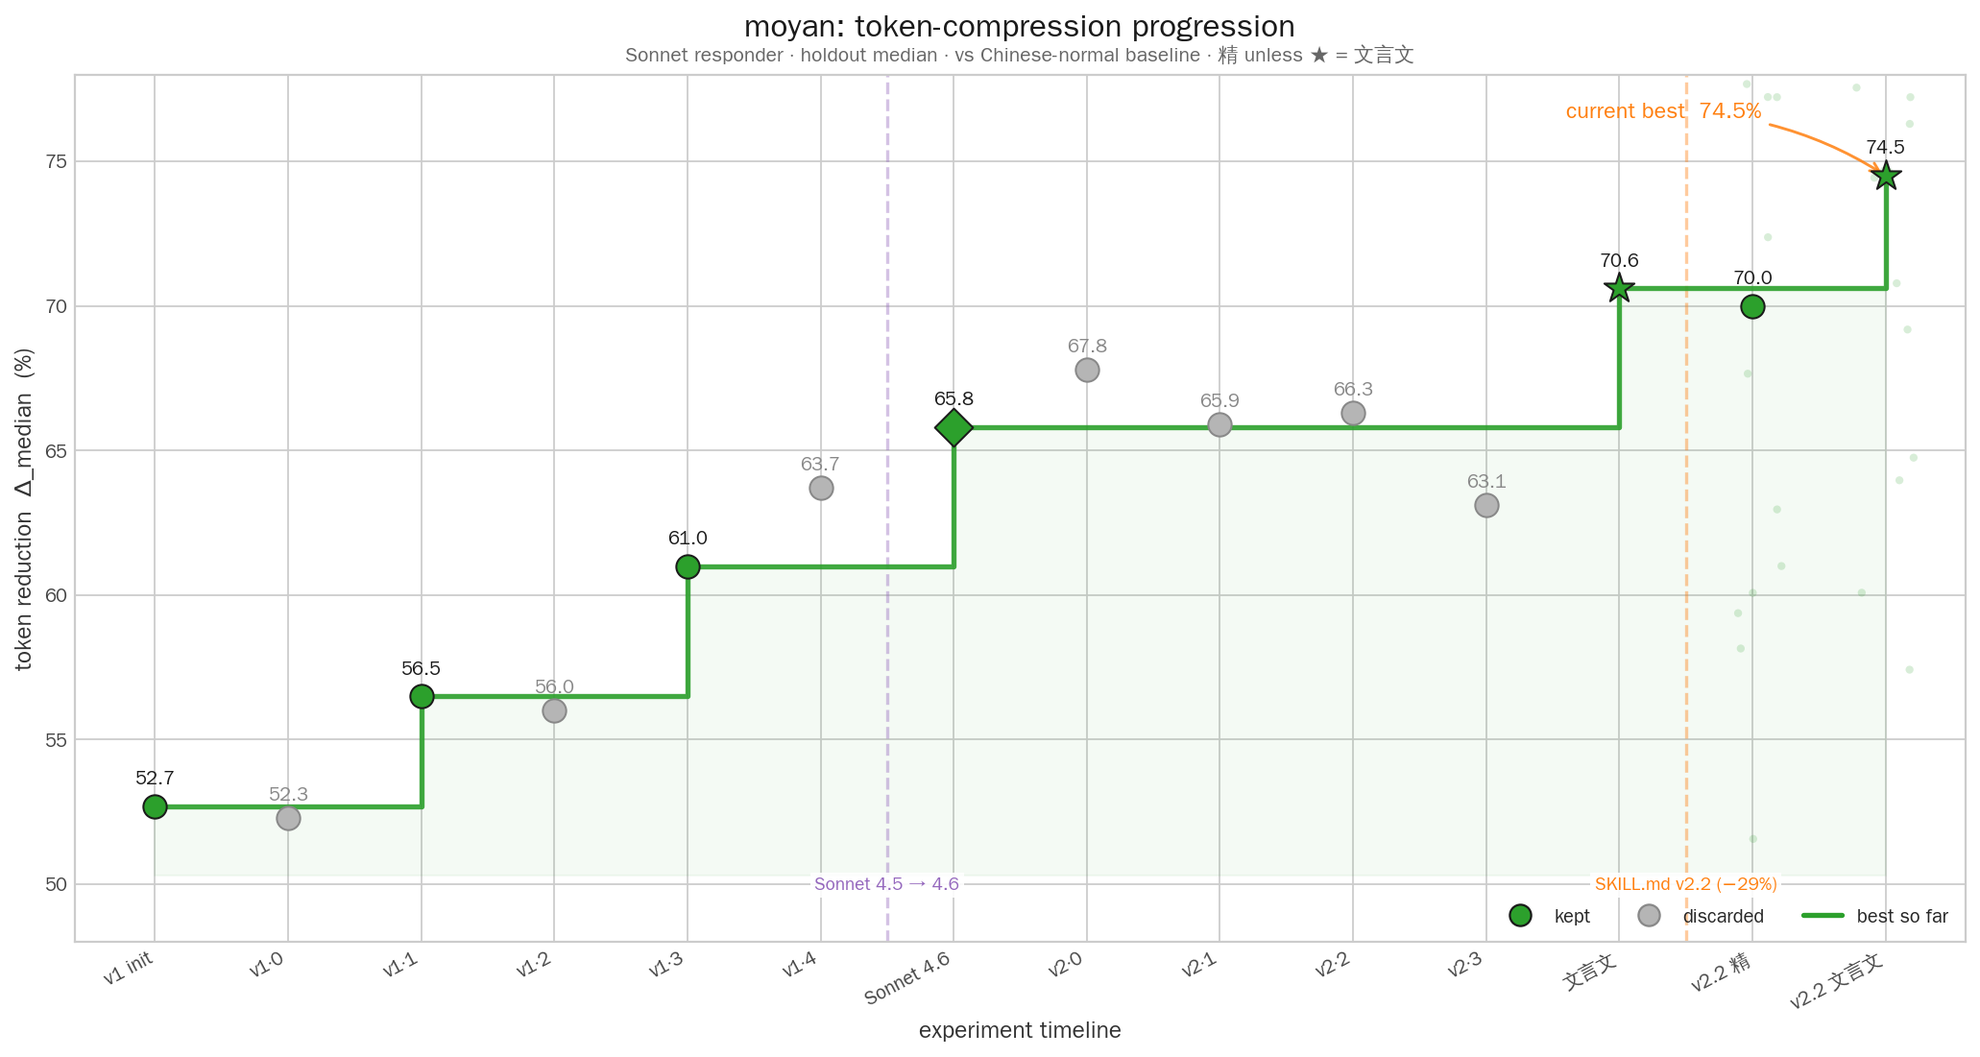
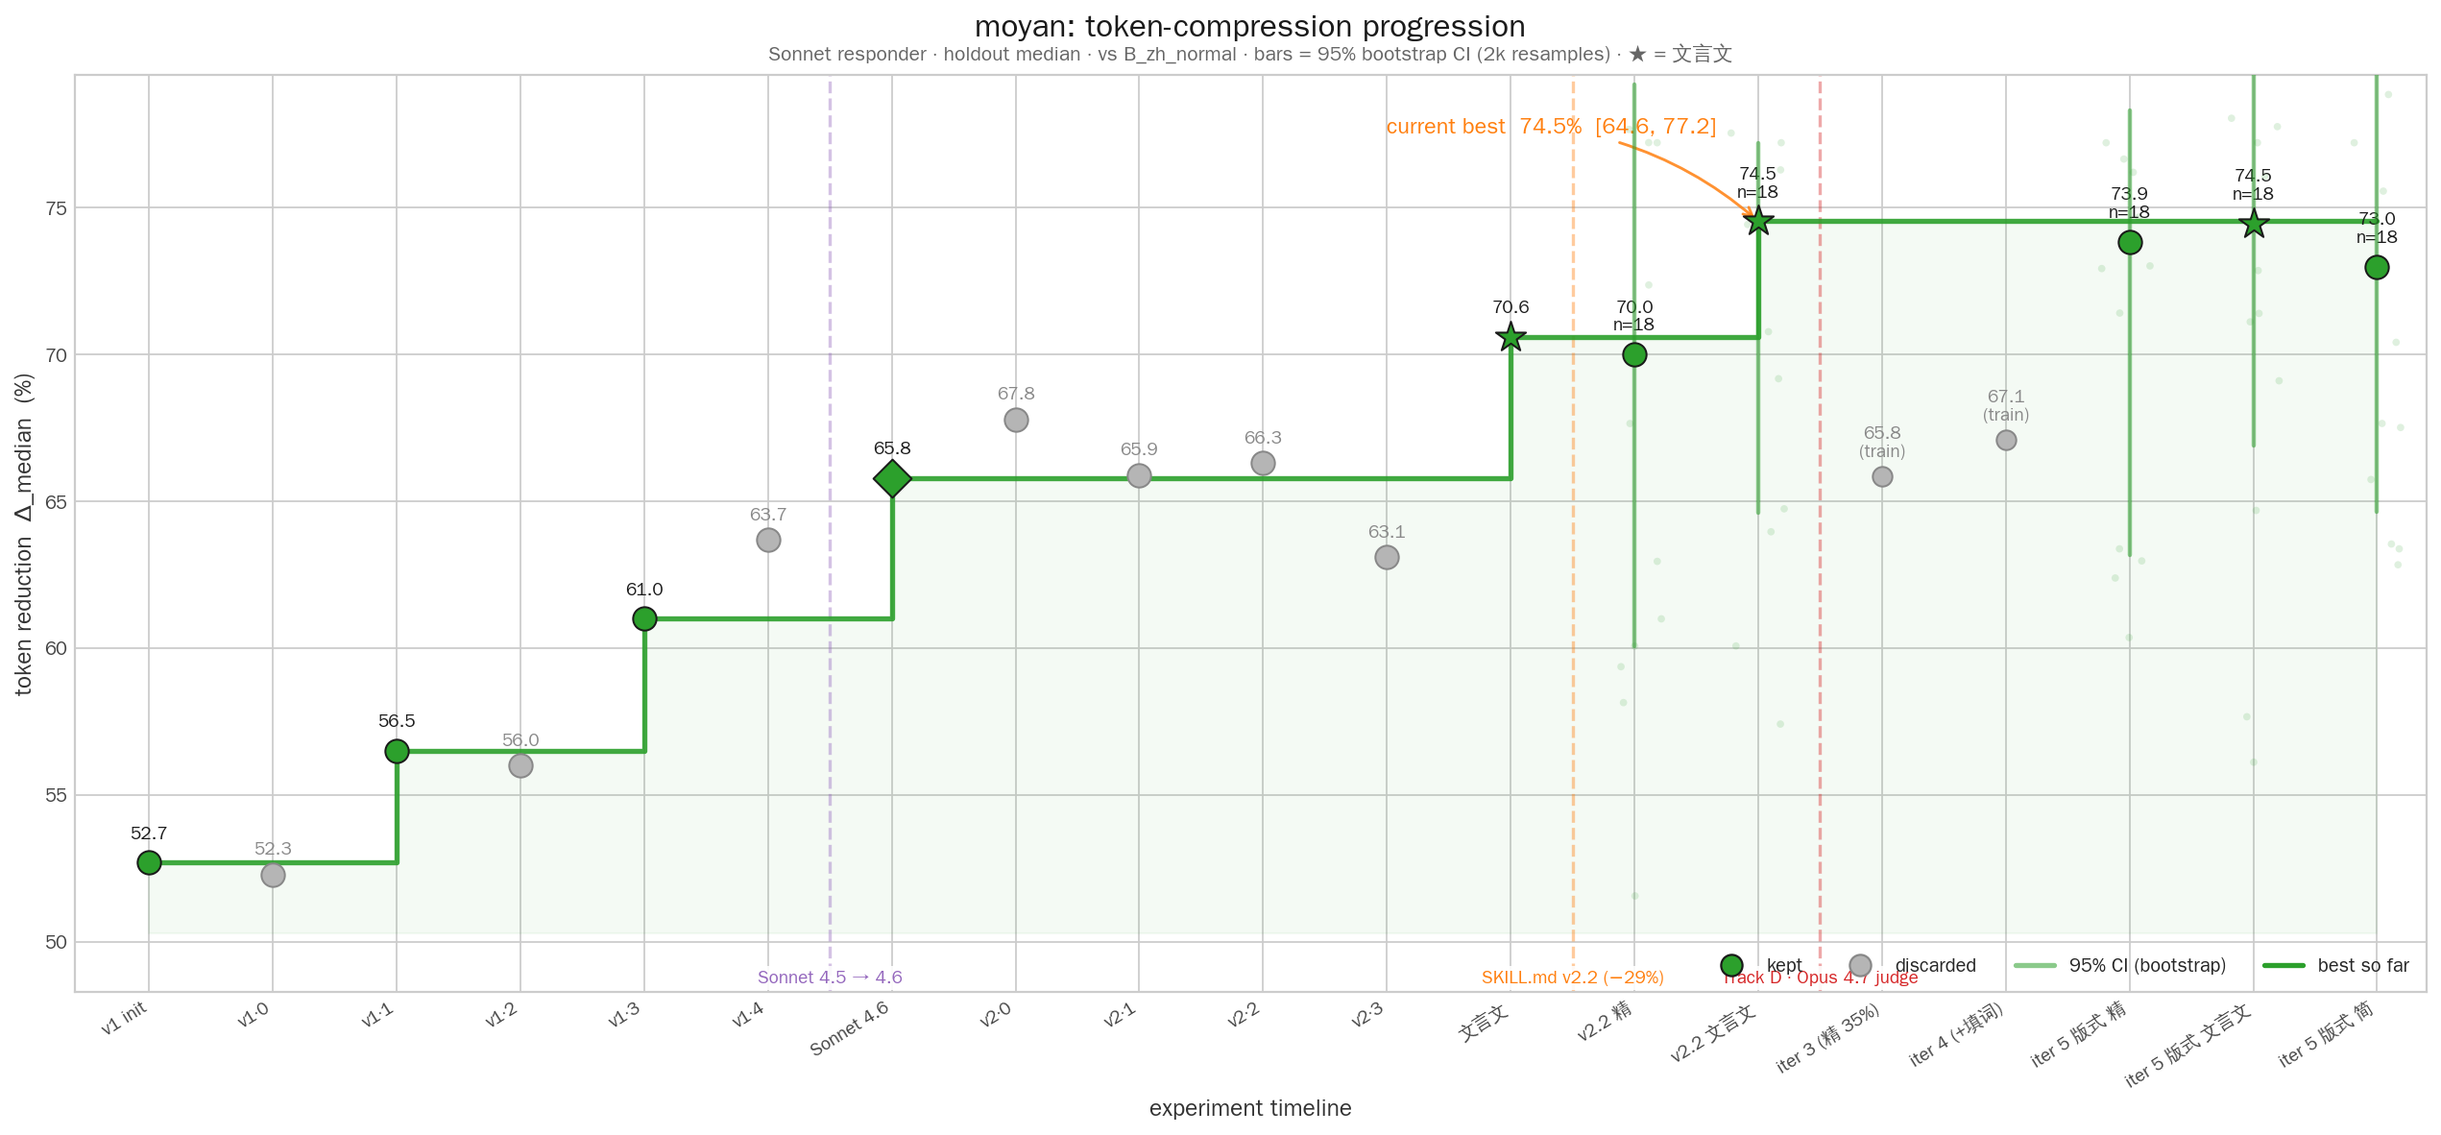
bench: data-backed plot + bootstrap CIs, flip-claim correction, iter 6 discard
plot.py: 20 EVENTS (up from 14), live-loads per-prompt deltas from trace files,
95% percentile bootstrap CIs on medians (n=2000), per-level points for Track D.
Shows iter 6 discard (x=19) alongside iter 5 keep (x=16-18).

RESULTS_v2.md: correct prior "级别排序翻转" claim — cross-run pairing with
n=16 was methodologically wrong. Within-run B_zh_normal pairing at n=18 shows
convergence (简 73.0 / 精 73.9 / 文言文 74.5), not flip. Add iter 6 writeup:
删 SQL 示例 → train +1.1pp / holdout -8pp，示例块作 few-shot 锚点。

results.tsv: log iter 6 as discard:holdout-overfit.

diff --git a/benchmark/plot.py b/benchmark/plot.py
@@ -1,12 +1,18 @@
 """Render docs/progression.png — moyan token-compression progression.
 
-Timeline of every SKILL.md iteration + level discoveries that moved the needle.
-Each point: Δ_median (output-token reduction vs B_zh_normal) on the benchmark.
-Big colored dot = kept/discovered. Gray dot = discarded. Number above every dot.
-Step line = best-so-far. Per-prompt scatter cloud under current-best entries
-so you can see the underlying distribution, not just the headline median.
+Timeline of every SKILL.md iteration that moved (or failed to move) the metric.
+Each point = holdout Δ_median (output-token reduction vs B_zh_normal baseline).
 
-Data is hand-curated from RESULTS{,_v2}.md + git log + local traces.
+Statistical machinery:
+- For every point backed by real traces we also draw a 95% bootstrap CI
+  (vertical bar) computed from the per-prompt Δ distribution. Lets readers
+  see that single-point differences of 1-2pp are inside the noise band.
+- Step line = best-so-far (of kept points only).
+- Faint scatter cloud under current-best points = raw per-prompt Δ.
+
+Historical points (v1 era, Sonnet 4.5; v2·0-3) have no traces on disk; they
+appear as point estimates only. All Track C & D points load live from traces.
+
 Regenerate after any new iteration:
     pip install matplotlib
     python benchmark/plot.py
@@ -15,6 +21,7 @@ from __future__ import annotations
 
 import json
 import random
+import statistics
 from pathlib import Path
 
 import matplotlib.pyplot as plt
@@ -23,12 +30,74 @@ from lib import BASELINE_GROUP
 
 BENCH = Path(__file__).resolve().parent
 
+
+# --- data loading -----------------------------------------------------------
+
+def per_prompt_deltas(run_id: str, moyan_group: str,
+                      baseline_run_id: str | None = None,
+                      split: str | None = "holdout") -> list[float]:
+    """Per-prompt Δ = (1 - moyan_out / baseline_out), as percentages.
+
+    Baseline defaults to same run_id (within-run pairing, the fair comparison).
+    `split` restricts to train.txt or holdout.txt prompt IDs; None = all.
+    """
+    baseline_run_id = baseline_run_id or run_id
+    split_ids: set[str] | None = None
+    if split:
+        f = BENCH / "splits" / f"{split}.txt"
+        if f.exists():
+            split_ids = {l.strip() for l in f.read_text().splitlines() if l.strip()}
+
+    def totals(rid: str, group: str) -> dict[str, int]:
+        d = BENCH / "traces" / rid
+        if not d.exists():
+            return {}
+        out: dict[str, int] = {}
+        for p in d.glob("*.json"):
+            if p.name.startswith(".") or "_judgments" in p.parts:
+                continue
+            t = json.loads(p.read_text(encoding="utf-8"))
+            if t.get("error") or t.get("group") != group:
+                continue
+            out[t["prompt_id"]] = out.get(t["prompt_id"], 0) + t["usage"]["output_tokens"]
+        return out
+
+    m = totals(run_id, moyan_group)
+    b = totals(baseline_run_id, BASELINE_GROUP)
+    deltas = []
+    for pid, mv in m.items():
+        bv = b.get(pid)
+        if not bv:
+            continue
+        if split_ids is not None and pid not in split_ids:
+            continue
+        deltas.append((1 - mv / bv) * 100)
+    return deltas
+
+
+def bootstrap_median_ci(samples: list[float], n_boot: int = 2000,
+                        alpha: float = 0.05,
+                        seed: int = 0) -> tuple[float, float]:
+    """Percentile-bootstrap CI for the median. Cheap and assumption-free."""
+    if len(samples) < 2:
+        return (float("nan"), float("nan"))
+    rng = random.Random(seed)
+    n = len(samples)
+    meds = []
+    for _ in range(n_boot):
+        resample = [samples[rng.randrange(n)] for _ in range(n)]
+        meds.append(statistics.median(resample))
+    meds.sort()
+    lo = meds[int(n_boot * alpha / 2)]
+    hi = meds[int(n_boot * (1 - alpha / 2))]
+    return (lo, hi)
+
+
 # --- timeline ---------------------------------------------------------------
-# Δ = moyan 精 holdout Δ_median vs B_zh_normal (same prompts, same metric).
-# The final entry flips to 文言文 — kept in the headline because it's the
-# mode we now recommend for debug/explain and it's the current SOTA.
+# `run` / `group` filled in for points we can load from traces. Others are
+# hand-curated (traces not retained). x is display order, not a real axis.
 EVENTS = [
-    # v1 era — Sonnet 4.5, hand + autoskill iterations on 精
+    # v1 era — Sonnet 4.5, hand + autoskill iterations on 精 (no traces on disk)
     dict(x=0,  d=52.7, keep=True,  tag="v1 init"),
     dict(x=1,  d=52.3, keep=False, tag="v1·0"),
     dict(x=2,  d=56.5, keep=True,  tag="v1·1"),
@@ -37,60 +106,50 @@ EVENTS = [
     dict(x=5,  d=63.7, keep=False, tag="v1·4"),
     # model upgrade — no SKILL.md change
     dict(x=6,  d=65.8, keep=True,  tag="Sonnet 4.6", marker="D"),
-    # v2 era — Sonnet 4.6, autoskill iters (all discarded — plateau)
+    # v2 era — Sonnet 4.6, autoskill iters (all discarded)
     dict(x=7,  d=67.8, keep=False, tag="v2·0"),
     dict(x=8,  d=65.9, keep=False, tag="v2·1"),
     dict(x=9,  d=66.3, keep=False, tag="v2·2"),
     dict(x=10, d=63.1, keep=False, tag="v2·3"),
-    # discovery — level switch (no rule change), Sonnet 4.6 holdout 文言文
+    # discovery — level switch (no rule change)
     dict(x=11, d=70.6, keep=True,  tag="文言文", marker="*"),
-    # Track C — SKILL.md v2.2 trim + quantitative level targets
-    dict(x=12, d=70.0, keep=True,  tag="v2.2 精"),
-    dict(x=13, d=74.5, keep=True,  tag="v2.2 文言文", marker="*"),
+    # Track C — SKILL.md v2.2 trim (has traces)
+    dict(x=12, keep=True,  tag="v2.2 精",
+         run="v2-sonnet-v22", group="D_moyan_jing"),
+    dict(x=13, keep=True,  tag="v2.2 文言文", marker="*",
+         run="v2-sonnet-v22", group="E_moyan_wenyan"),
+    # Track D — autoskill under Opus 4.7 judge
+    dict(x=14, keep=False, tag="iter 3 (精 35%)", train_only=True,
+         d=65.84, note="train only"),
+    dict(x=15, keep=False, tag="iter 4 (+填词)", train_only=True,
+         d=67.09, note="train only"),
+    dict(x=16, keep=True,  tag="iter 5 版式 精",
+         run="skill23-holdout-allgroups", group="D_moyan_jing"),
+    dict(x=17, keep=True,  tag="iter 5 版式 文言文", marker="*",
+         run="skill23-holdout-allgroups", group="E_moyan_wenyan"),
+    dict(x=18, keep=True,  tag="iter 5 版式 简",
+         run="skill23-holdout-allgroups", group="C_moyan_jian"),
+    dict(x=19, keep=False, tag="iter 6 删 SQL 示例",
+         run="holdout_006", group="D_moyan_jing"),
 ]
 
-# Per-prompt Δ cloud — drawn as a faint vertical strip under the median dot
-# for entries where we still have local traces. Gives the viewer a sense of
-# the distribution behind every headline median.
-def load_cloud(run_id: str, group: str) -> list[float]:
-    d = BENCH / "traces" / run_id
-    if not d.exists():
-        return []
-    totals_m: dict[str, int] = {}
-    totals_b: dict[str, int] = {}
-    for p in d.glob("*.json"):
-        if p.name.startswith(".") or "_judgments" in p.parts:
-            continue
-        t = json.loads(p.read_text(encoding="utf-8"))
-        if t.get("error"):
-            continue
-        pid = t["prompt_id"]
-        out = t["usage"]["output_tokens"]
-        if t["group"] == group:
-            totals_m[pid] = totals_m.get(pid, 0) + out
-        elif t["group"] == BASELINE_GROUP:
-            totals_b[pid] = totals_b.get(pid, 0) + out
-    deltas = []
-    for pid, m in totals_m.items():
-        b = totals_b.get(pid)
-        if not b:
-            continue
-        deltas.append((1 - m / b) * 100)
-    return deltas
-
-
-CLOUDS = {
-    12: load_cloud("v2-sonnet-v22", "D_moyan_jing"),
-    13: load_cloud("v2-sonnet-v22", "E_moyan_wenyan"),
-}
+# Resolve data-backed events: compute median + 95% CI + cloud from traces.
+for e in EVENTS:
+    if "run" in e:
+        deltas = per_prompt_deltas(e["run"], e["group"])
+        if deltas:
+            e["d"] = statistics.median(deltas)
+            e["ci"] = bootstrap_median_ci(deltas)
+            e["cloud"] = deltas
+            e["n"] = len(deltas)
 
 
 def best_so_far(events):
     best, out = -1e9, []
     for e in events:
-        if e.get("keep"):
+        if e.get("keep") and "d" in e:
             best = max(best, e["d"])
-        out.append(best)
+        out.append(best if best > -1e9 else None)
     return out
 
 
@@ -104,48 +163,78 @@ def render(out_path: Path):
     plt.rcParams["font.family"] = [cjk, "DejaVu Sans", "sans-serif"] if cjk else ["DejaVu Sans"]
     plt.rcParams["axes.unicode_minus"] = False
 
-    fig, ax = plt.subplots(figsize=(13, 7))
+    fig, ax = plt.subplots(figsize=(16, 7.5))
 
     GREEN = "#2ca02c"
     GRAY  = "#b5b5b5"
     DARK  = "#1a1a1a"
+    CI_C  = "#2ca02c"
 
-    xs = [e["x"] for e in EVENTS]
-    bsf = best_so_far(EVENTS)
+    # Exclude events that didn't resolve
+    events = [e for e in EVENTS if "d" in e]
+    xs = [e["x"] for e in events]
 
-    ax.step(xs, bsf, where="post", color=GREEN, linewidth=2.4,
-            alpha=0.9, zorder=2)
-    ax.fill_between(xs, [min(e["d"] for e in EVENTS) - 2] * len(xs), bsf,
-                    step="post", color=GREEN, alpha=0.05, zorder=1)
+    bsf = best_so_far(events)
+    step_xs = [e["x"] for e, b in zip(events, bsf) if b is not None]
+    step_ys = [b for b in bsf if b is not None]
 
+    ax.step(step_xs, step_ys, where="post", color=GREEN, linewidth=2.4,
+            alpha=0.9, zorder=2, label="best so far")
+    ax.fill_between(step_xs,
+                    [min(e["d"] for e in events) - 2] * len(step_xs),
+                    step_ys, step="post", color=GREEN, alpha=0.05, zorder=1)
+
+    # Scatter clouds for current-best / recent events that have per-prompt data
     rng = random.Random(0)
-    for x, cloud in CLOUDS.items():
-        jx = [x + (rng.random() - 0.5) * 0.45 for _ in cloud]
-        ax.scatter(jx, cloud, s=14, color=GREEN, alpha=0.18,
+    cloud_xs = {e["x"] for e in events
+                if e.get("keep") and e.get("cloud") and e["x"] >= 12}
+    for e in events:
+        if e["x"] not in cloud_xs:
+            continue
+        jx = [e["x"] + (rng.random() - 0.5) * 0.45 for _ in e["cloud"]]
+        ax.scatter(jx, e["cloud"], s=12, color=GREEN, alpha=0.15,
                    edgecolor="none", zorder=3)
 
-    for e in EVENTS:
-        color = GREEN if e["keep"] else GRAY
+    # 95% bootstrap CI bars for data-backed events
+    for e in events:
+        if "ci" not in e:
+            continue
+        lo, hi = e["ci"]
+        color = CI_C if e.get("keep") else "#888"
+        ax.plot([e["x"], e["x"]], [lo, hi], color=color, alpha=0.55,
+                linewidth=2.0, zorder=4, solid_capstyle="round")
+
+    # Main markers
+    for e in events:
+        color = GREEN if e.get("keep") else GRAY
         marker = e.get("marker", "o")
         size = 220 if marker == "*" else (160 if marker == "D" else 120)
+        if e.get("train_only"):
+            size *= 0.7
         ax.scatter(e["x"], e["d"], c=color, marker=marker, s=size,
-                   edgecolor=DARK if e["keep"] else "#888",
+                   edgecolor=DARK if e.get("keep") else "#888",
                    linewidth=0.9, zorder=5)
-        ax.annotate(f"{e['d']:.1f}",
+        label = f"{e['d']:.1f}"
+        if e.get("train_only"):
+            label += "\n(train)"
+        if "n" in e:
+            label += f"\nn={e['n']}"
+        ax.annotate(label,
                     xy=(e["x"], e["d"]),
-                    xytext=(0, 9 if e["keep"] else 7),
+                    xytext=(0, 10 if e.get("keep") else 8),
                     textcoords="offset points",
                     ha="center", va="bottom",
-                    fontsize=9,
-                    color=DARK if e["keep"] else "#888",
-                    weight="semibold" if e["keep"] else "normal")
+                    fontsize=8.5,
+                    color=DARK if e.get("keep") else "#888",
+                    weight="semibold" if e.get("keep") else "normal")
 
     for x, text, color in [
-        (5.5, "Sonnet 4.5 → 4.6", "#9467bd"),
-        (11.5, "SKILL.md v2.2 (−29%)", "#ff7f0e"),
+        (5.5,  "Sonnet 4.5 → 4.6",        "#9467bd"),
+        (11.5, "SKILL.md v2.2 (−29%)",     "#ff7f0e"),
+        (13.5, "Track D · Opus 4.7 judge", "#d62728"),
     ]:
         ax.axvline(x=x, color=color, linestyle="--", alpha=0.4, zorder=1)
-        ax.text(x, 49.7, text, color=color, fontsize=8.5,
+        ax.text(x, 48.5, text, color=color, fontsize=8.5,
                 ha="center", va="bottom",
                 bbox=dict(facecolor="white", edgecolor="none", alpha=0.9, pad=2))
 
@@ -154,14 +243,15 @@ def render(out_path: Path):
     ax.set_title("moyan: token-compression progression",
                  fontsize=15, pad=18, color=DARK, weight="bold")
     ax.text(0.5, 1.015,
-            "Sonnet responder · holdout median · vs Chinese-normal baseline · 精 unless ★ = 文言文",
+            "Sonnet responder · holdout median · vs B_zh_normal · bars = 95% bootstrap CI (2k resamples) · ★ = 文言文",
             transform=ax.transAxes, ha="center", fontsize=9.5, color="#666")
 
     ax.set_xticks(xs)
-    ax.set_xticklabels([e["tag"] for e in EVENTS], rotation=28, ha="right",
-                       fontsize=9, color="#444")
-    ax.set_ylim(48, 78)
-    ax.set_xlim(-0.6, len(EVENTS) - 0.4)
+    ax.set_xticklabels([e["tag"] for e in events], rotation=32, ha="right",
+                       fontsize=8.5, color="#444")
+    all_d = [e["d"] for e in events]
+    ax.set_ylim(min(all_d) - 4, max(all_d) + 5)
+    ax.set_xlim(-0.6, max(xs) + 0.4)
     ax.tick_params(axis="y", labelcolor="#444", labelsize=9)
 
     handles = [
@@ -169,15 +259,19 @@ def render(out_path: Path):
                    markeredgecolor=DARK, markersize=10, label="kept"),
         plt.Line2D([], [], marker="o", color="w", markerfacecolor=GRAY,
                    markeredgecolor="#888", markersize=10, label="discarded"),
+        plt.Line2D([], [], color=CI_C, linewidth=2.4, alpha=0.55,
+                   label="95% CI (bootstrap)"),
         plt.Line2D([], [], color=GREEN, linewidth=2.4, label="best so far"),
     ]
     ax.legend(handles=handles, loc="lower right", fontsize=9,
-              framealpha=0.95, edgecolor="#ddd", ncol=3)
+              framealpha=0.95, edgecolor="#ddd", ncol=4)
 
-    best = EVENTS[-1]
-    ax.annotate(f"current best  {best['d']:.1f}%",
+    best = max((e for e in events if e.get("keep")), key=lambda e: e["d"])
+    ax.annotate(f"current best  {best['d']:.1f}%"
+                + (f"  [{best['ci'][0]:.1f}, {best['ci'][1]:.1f}]"
+                   if "ci" in best else ""),
                 xy=(best["x"], best["d"]),
-                xytext=(best["x"] - 2.4, 76.5),
+                xytext=(best["x"] - 3.0, max(all_d) + 3),
                 fontsize=10.5, color="#ff7f0e", weight="bold", ha="left",
                 arrowprops=dict(arrowstyle="->", color="#ff7f0e",
                                 lw=1.3, alpha=0.85,

diff --git a/benchmark/RESULTS_v2.md b/benchmark/RESULTS_v2.md
@@ -311,20 +311,37 @@ Track C 以 SKILL.md v2.2 收尾后，重建 regime：
 3. **v2.2 plateau 被 v2.3 打破。** 新 BEST：训练 0.6948 / holdout 0.7237（注：与 Track C 的 74.5% 不直接可比，Track C 是文言文 holdout，本表是精 train/holdout。指标口径不同）。
 4. **SKILL.md 最新版**是 `485f1ef`（在 v2.2 基础上加一行版式规则）。
 
-### 横向验证：版式规则对三档级别的效果（holdout, n=16）
+### 横向验证：版式规则对三档级别的效果（holdout, n=18, 各 run 内部 B_zh_normal 对照）
 
-`run_id=skill23-holdout-allgroups`，vs `sonnet-baseline` 的 B_zh_normal。
+`run_id=skill23-holdout-allgroups` — v2.2 SKILL + 版式规则一起跑，各组与同一 run 内的 B_zh_normal 配对。
 
 | 级别 | Track C v2.2 holdout | **Track D iter 5 holdout** | Δ |
 |---|---|---|---|
-| 简     | 66.1% | **76.2%** | **+10.1pp** |
-| 精     | 65.5% | 73.1%     | +7.6pp |
-| 文言文 | **73.0%** | 70.9% | −2.1pp |
+| 简     | 68.1% | **73.0%** | **+4.9pp** |
+| 精     | 70.0% | **73.9%** | **+3.9pp** |
+| 文言文 | 74.5% | 74.5%     | 0.0pp |
 
-**级别排序翻转**：从「简 < 精 < 文言文」变为「**文言文 < 精 < 简**」。
-- 简/精 重度用 markdown 分层（`##`、`---`），版式规则直接削掉这些装饰 → 大涨。
-- 文言文本就扁平叙述（一段连贯文言，少用 markdown），规则无施力点 → 持平（−2.1pp 在 n=16 噪声内）。
-- 设计含义：「简」不再只是「技术文档版」的定位，而真正是 token 最省的级别。下次可考虑把「文言文 = 最省」的旧说法从 frontmatter 拿掉。
+**级别排序保持单调（简 < 精 < 文言文），但简/精 向文言文收敛。** 三档差距从 6.4pp 收窄到 1.5pp。
+- 简/精 重度用 markdown 分层（`##`、`---`），版式规则直接削掉这些装饰 → +4pp 级别涨幅。
+- 文言文本就扁平（一段连贯文言，少用 markdown），规则无施力点 → 持平。
+- 设计含义：**文言文 仍是最省级别**，但优势大幅缩小。简/精 对日常开发问答已足够接近文言文，用户选择不再基于 token 成本，而基于可读性偏好。
+
+> **之前声称过"级别排序翻转"（commit `09db6fd`）是方法瑕疵**：用了 paired n=16（只保留所有 run 都有的 prompt）并跨 run 对 baseline（skill23 vs sonnet-baseline）。修正后的对比用各 run 内部 B_zh_normal 配对 + 全 n=18，方向相反。保留旧 commit 作为方法自省记录。
+
+### Iter 6：删除 枚举原因 SQL 示例块（discard:holdout-overfit）
+
+继续 autoskill。假设：枚举原因规则的 3 行 worked example 可能冗余（规则文字已说明"3-4 条短表，格式 `[原因] — [验证法]`"）。删之测试。
+
+结果：
+- Train n=2：a=0.6974 / b=0.7144 → 0.7059（+1.1pp vs BEST 0.6948）
+- Holdout：**0.6440（−8.0pp vs BEST 0.7237）** 🚨
+- 判官 full_rate：0.40 on holdout（完整性无崩）
+
+训练涨、留存崩，判定 `discard:holdout-overfit`。SKILL.md 回滚。
+
+**核心发现**：该 SQL 示例是**留存泛化的锚点**，非装饰。规则文字描述 `[原因] — [验证法]` 格式，模型在 train 上可以从 prompt 特征学到；但在 holdout（未见 prompt）上没有 worked example 给它照着办，就退回到没那么结构化的回答。这是 worked-example 在 few-shot 语境下的典型作用。
+
+删节 SKILL.md 体积有风险 —— 下次精简要区分「装饰文本」vs「示例锚点」。
 
 ### 复现 Track D
 
